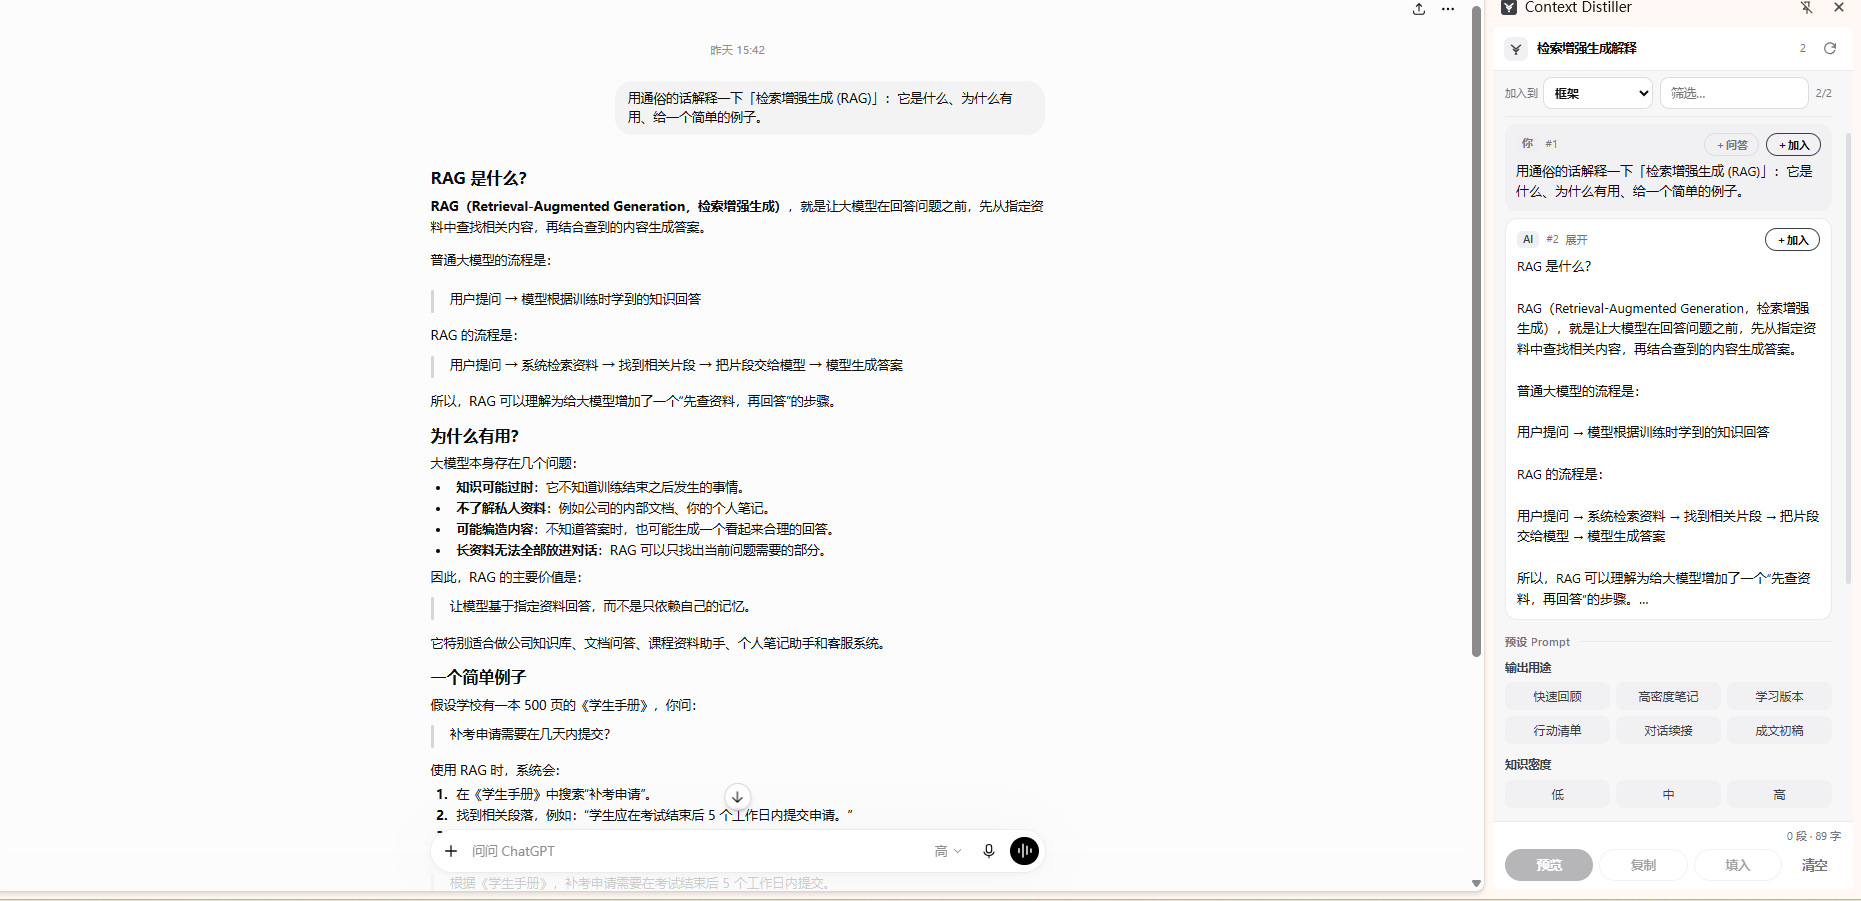
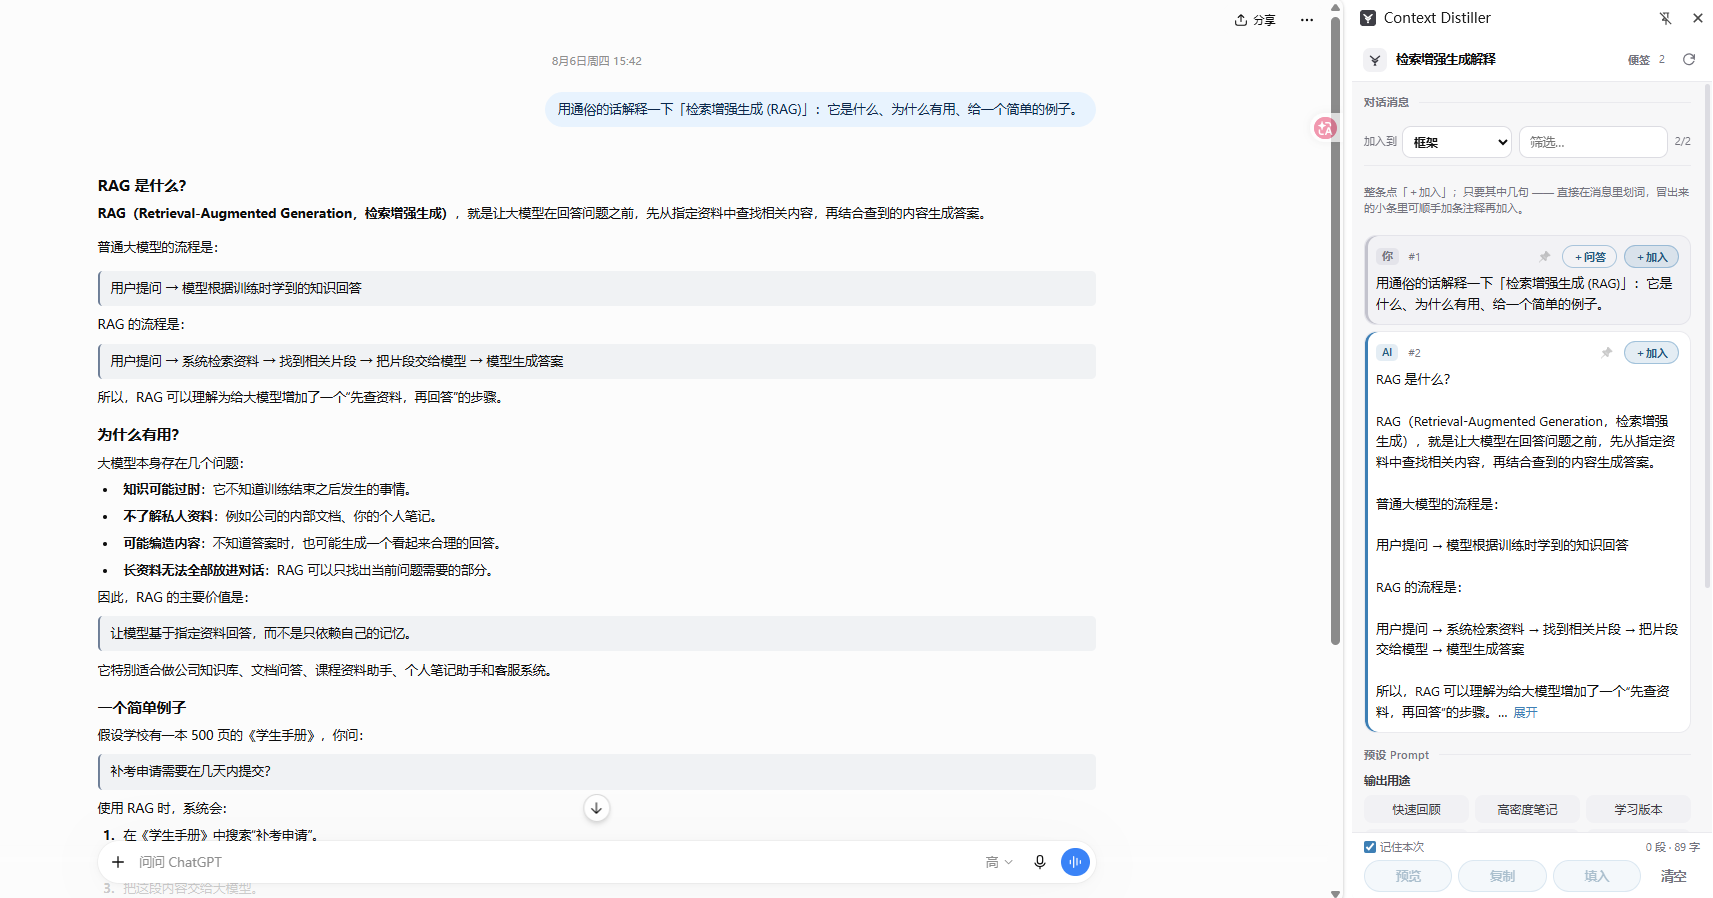
docs: refresh screenshots for 1.1.1 and tidy the README layout
Replace all three shots with current ones: the blue palette, the left rail that
separates your turns from the AI, the scratchpad and mark controls, and the full
preset panel. The hero is a touch wider and the two portrait shots larger and
evenly spaced; captions now describe what the images actually show.

diff --git a/README.en.md b/README.en.md
@@ -22,19 +22,20 @@ Before you hand material to the AI, it hands the **choice of what, the way it's 
 
 <div align="center">
 
-<img src="docs/screenshots/messages.png" width="800" alt="Context Distiller docked next to a real ChatGPT conversation, reading it and selecting material" />
+<img src="docs/screenshots/messages.png" width="820" alt="Context Distiller docked next to a real ChatGPT conversation, reading it and selecting material" />
 
-<sub>Real screenshot · docked beside a ChatGPT conversation, reading the current thread · select by highlight / whole message (the side panel strips Markdown markers for clean reading)</sub>
+<sub>Real screenshot · docked beside a ChatGPT conversation, reading the current thread automatically · select a whole message, a Q&amp;A pair, or a highlight<br />
+(a left rail tells you apart from the AI; the panel strips Markdown markers for clean reading)</sub>
 
 <br /><br />
 
-<img src="docs/screenshots/workspace.png" width="212" alt="All preset Prompts at a glance: purpose / density / style / structure / format + extras" />
-&nbsp;&nbsp;
-<img src="docs/screenshots/preview.png" width="212" alt="Preview of the deterministically compiled full prompt" />
+<img src="docs/screenshots/workspace.png" width="248" alt="All preset Prompts at a glance: purpose / density / style / structure / format + extras" />
+&nbsp;&nbsp;&nbsp;
+<img src="docs/screenshots/preview.png" width="248" alt="Preview of the deterministically compiled full prompt" />
 
 <br />
 
-<sub>All preset Prompts at a glance (purpose / density / style / structure / format + extras)&nbsp;&nbsp;·&nbsp;&nbsp;preview of the deterministically compiled prompt (keeps the original Markdown)</sub>
+<sub>All preset Prompts at a glance (purpose / density / style / structure / format + extras)&nbsp;&nbsp;·&nbsp;&nbsp;preview of the deterministically compiled prompt (keeps the original Markdown, never auto-sends)</sub>
 
 </div>
 

diff --git a/README.md b/README.md
@@ -22,19 +22,20 @@
 
 <div align="center">
 
-<img src="docs/screenshots/messages.png" width="800" alt="Context Distiller 停靠在真实 ChatGPT 对话旁，读取当前对话并选材" />
+<img src="docs/screenshots/messages.png" width="820" alt="Context Distiller 停靠在真实 ChatGPT 对话旁，读取当前对话并选材" />
 
-<sub>真实运行截图 · 停靠在 ChatGPT 对话旁读取当前对话 · 划词 / 整条选材（侧边栏自动去除 Markdown 标记，阅读干净）</sub>
+<sub>真实运行截图 · 停靠在 ChatGPT 对话旁自动读取当前对话 · 整条 / 问答 / 划词选材<br />
+（左侧色条区分你与 AI；侧边栏自动去除 Markdown 标记，阅读干净）</sub>
 
 <br /><br />
 
-<img src="docs/screenshots/workspace.png" width="212" alt="预设 Prompt 全景：用途 / 密度 / 文风 / 结构 / 格式 + 附加要求" />
-&nbsp;&nbsp;
-<img src="docs/screenshots/preview.png" width="212" alt="预览「确定性编译」出的完整提示词" />
+<img src="docs/screenshots/workspace.png" width="248" alt="预设 Prompt 全景：用途 / 密度 / 文风 / 结构 / 格式 + 附加要求" />
+&nbsp;&nbsp;&nbsp;
+<img src="docs/screenshots/preview.png" width="248" alt="预览「确定性编译」出的完整提示词" />
 
 <br />
 
-<sub>全部预设一览（用途 / 密度 / 文风 / 结构 / 格式 + 附加要求）&nbsp;&nbsp;·&nbsp;&nbsp;预览确定性编译出的完整提示词（保留原始 Markdown）</sub>
+<sub>全部预设一览（用途 / 密度 / 文风 / 结构 / 格式 + 附加要求）&nbsp;&nbsp;·&nbsp;&nbsp;预览确定性编译出的完整提示词（保留原始 Markdown，绝不自动发送）</sub>
 
 </div>
 
